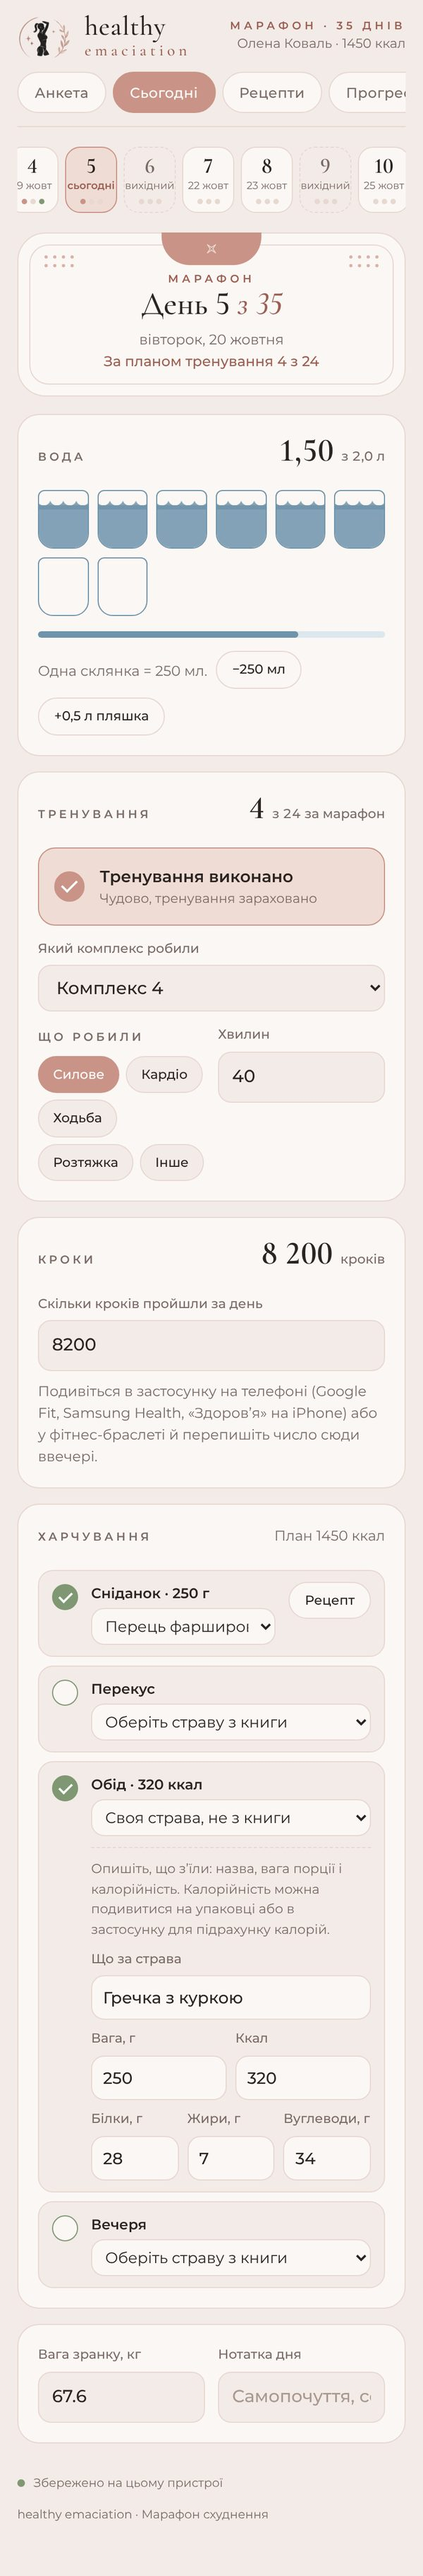
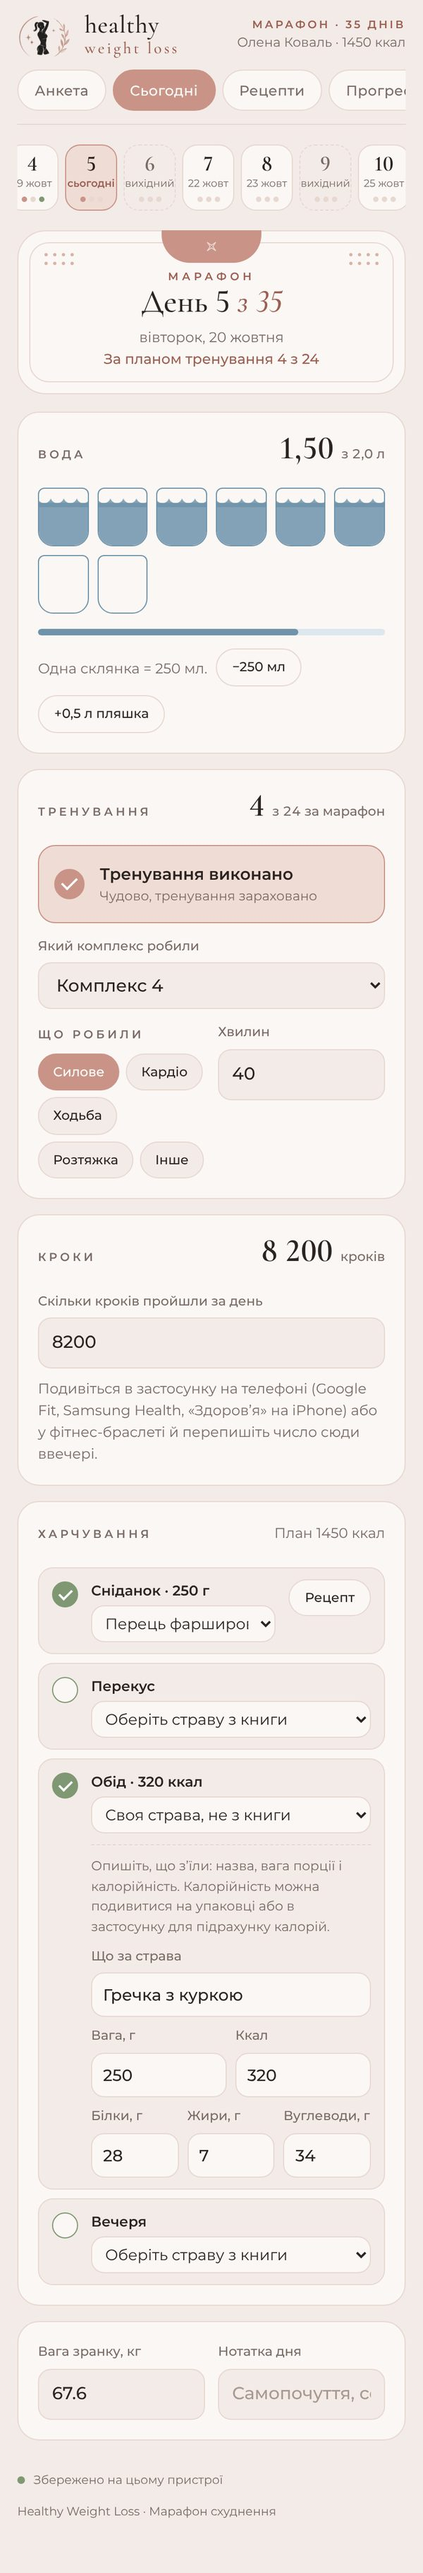
Трекер марафону: нова назва Healthy Weight Loss
Claude-Session: https://claude.ai/code/session_014WCBYoW6orCZh8wKXWCvh1

diff --git a/index.html b/index.html
@@ -375,7 +375,7 @@ header nav a[href^="#"]:not([href="#top"]):not(.btn):hover{background-size:100% 
 </div>
 <div class="mk-stage mk-solo reveal-img">
 <div class="mk-phone">
-<div class="mk-screen"><img class="mk-scroll" src="images/site-tracker-mobile.jpg" alt="Трекер марафону схуднення healthy emaciation на телефоні" loading="lazy" decoding="async"></div>
+<div class="mk-screen"><img class="mk-scroll" src="images/site-tracker-mobile.jpg" alt="Трекер марафону схуднення Healthy Weight Loss на телефоні" loading="lazy" decoding="async"></div>
 </div>
 </div>
 </div>
